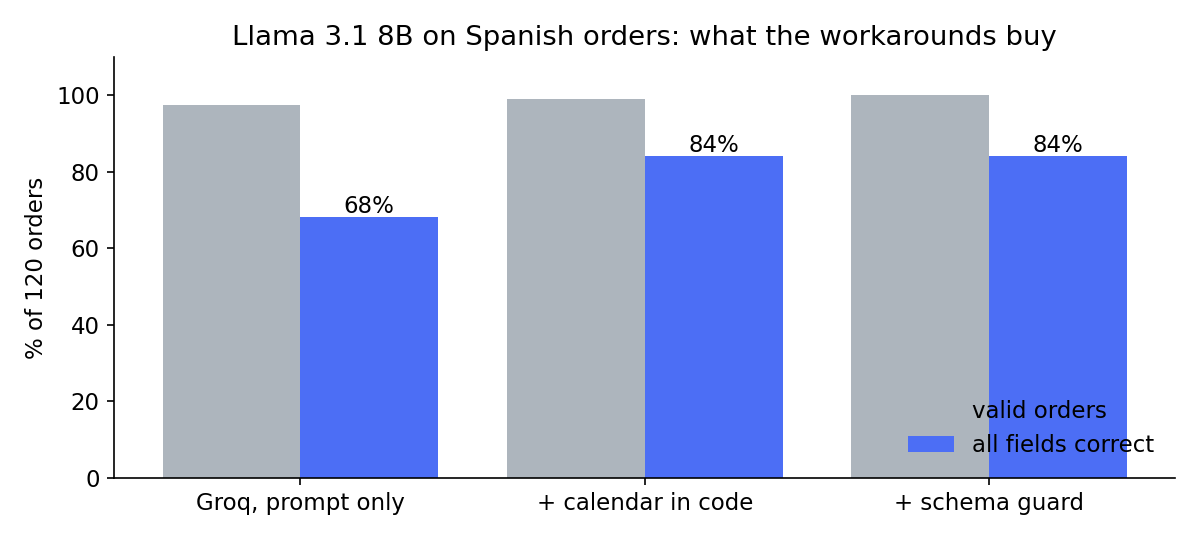
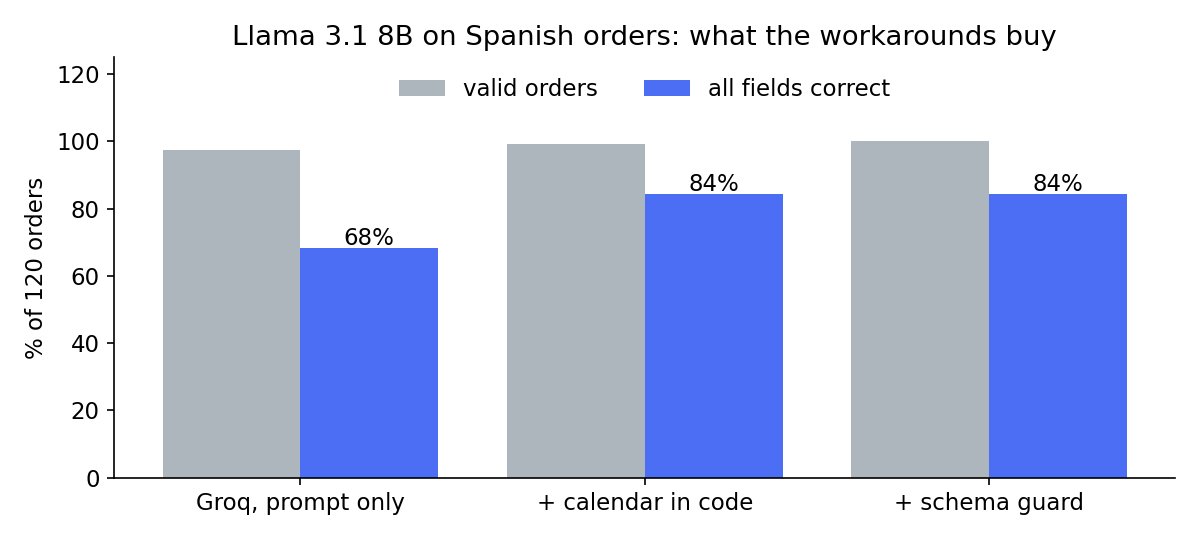
Chart legend placement

diff --git a/bench/report.py b/bench/report.py
@@ -69,8 +69,8 @@ def workaround_chart(rows):
     for i, v in enumerate(vals):
         ax.text(i + 0.2, v["all_fields_correct_%"] + 1, f"{v['all_fields_correct_%']:.0f}%", ha="center")
     ax.set_xticks(list(x), labels[: len(vals)])
-    ax.set(ylim=(0, 110), ylabel="% of 120 orders", title="Llama 3.1 8B on Spanish orders: what the workarounds buy")
-    ax.legend(frameon=False, loc="lower right")
+    ax.set(ylim=(0, 125), ylabel="% of 120 orders", title="Llama 3.1 8B on Spanish orders: what the workarounds buy")
+    ax.legend(frameon=False, loc="upper center", ncol=2)
     fig.tight_layout()
     fig.savefig(RES / "workarounds.png")
 
